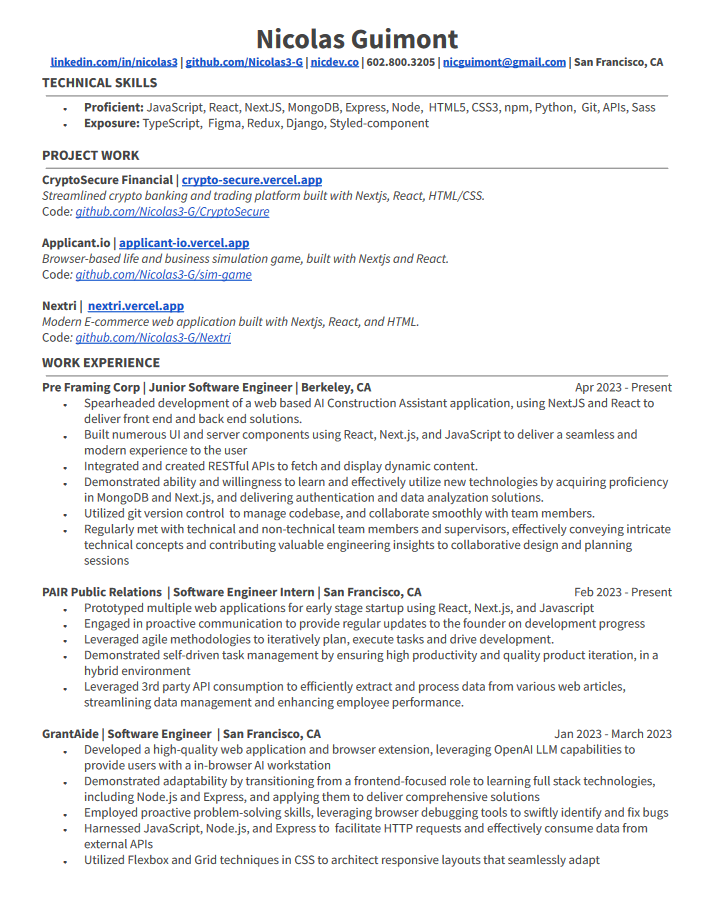
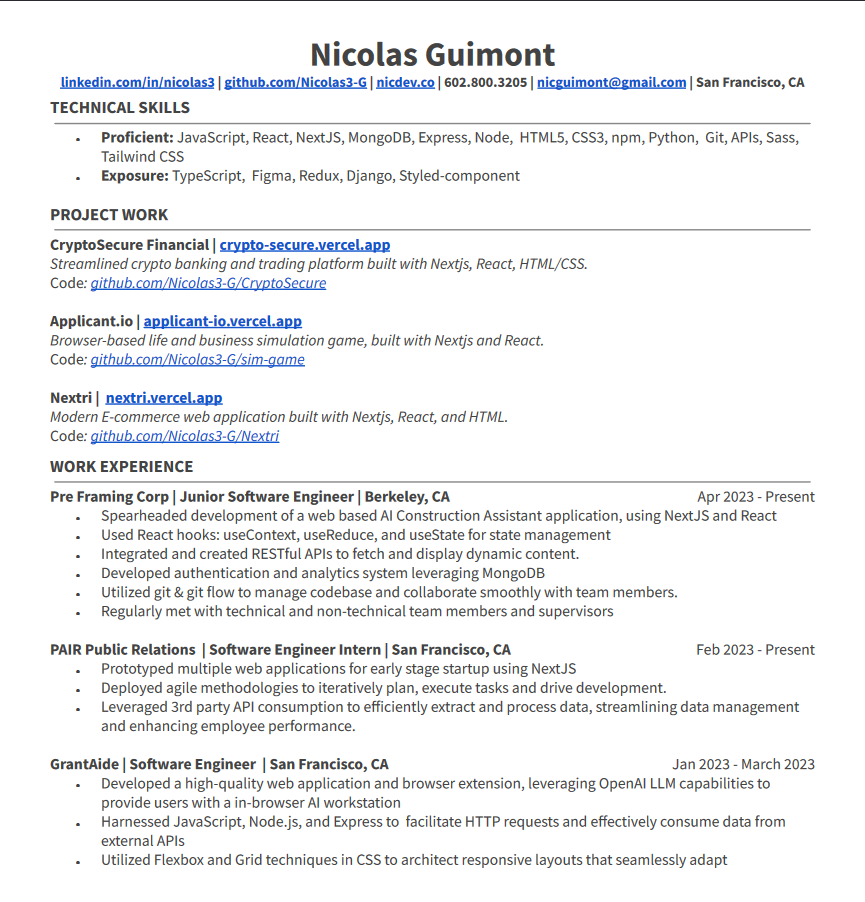
resume and skill update

Changed region(s): [[0.0616, 0.031, 0.9552, 0.9623]]

diff --git a/src/components/ExperienceSection/ExperienceSection.js b/src/components/ExperienceSection/ExperienceSection.js
@@ -106,6 +106,7 @@ const ExperienceSection = ({ scrollAnimationList }) => {
                             <Skill name="Python" img="skill-icons/python-icon.png" />
                             <Skill name="Git" img="skill-icons/git-icon.png" />
                             <Skill name="Sass" img="skill-icons/sass-icon.png" />
+                            <Skill name="Tailwind CSS" img="skill-icons/tailwind-icon.png" />
                         </div>
                     </div>
                 </div>

diff --git a/src/components/ExperienceSection/ExperienceSection.module.css b/src/components/ExperienceSection/ExperienceSection.module.css
@@ -172,7 +172,9 @@
     width: 60%;
     height: 100%;
     position: relative;
-    overflow-y: auto;
+    /* Set "overflow-y" to auto when RESUME IMAGE is larger than screen, otherwise "hidden" is best to fit */
+    /* overflow-y: auto; */
+    overflow-y: hidden;
     overflow-x: visible;
 }
 
@@ -191,6 +193,7 @@
 
 .resume-image {
     max-width: 100%;
+    overflow-y: hidden;
 }
 
 .overflow-holder {
